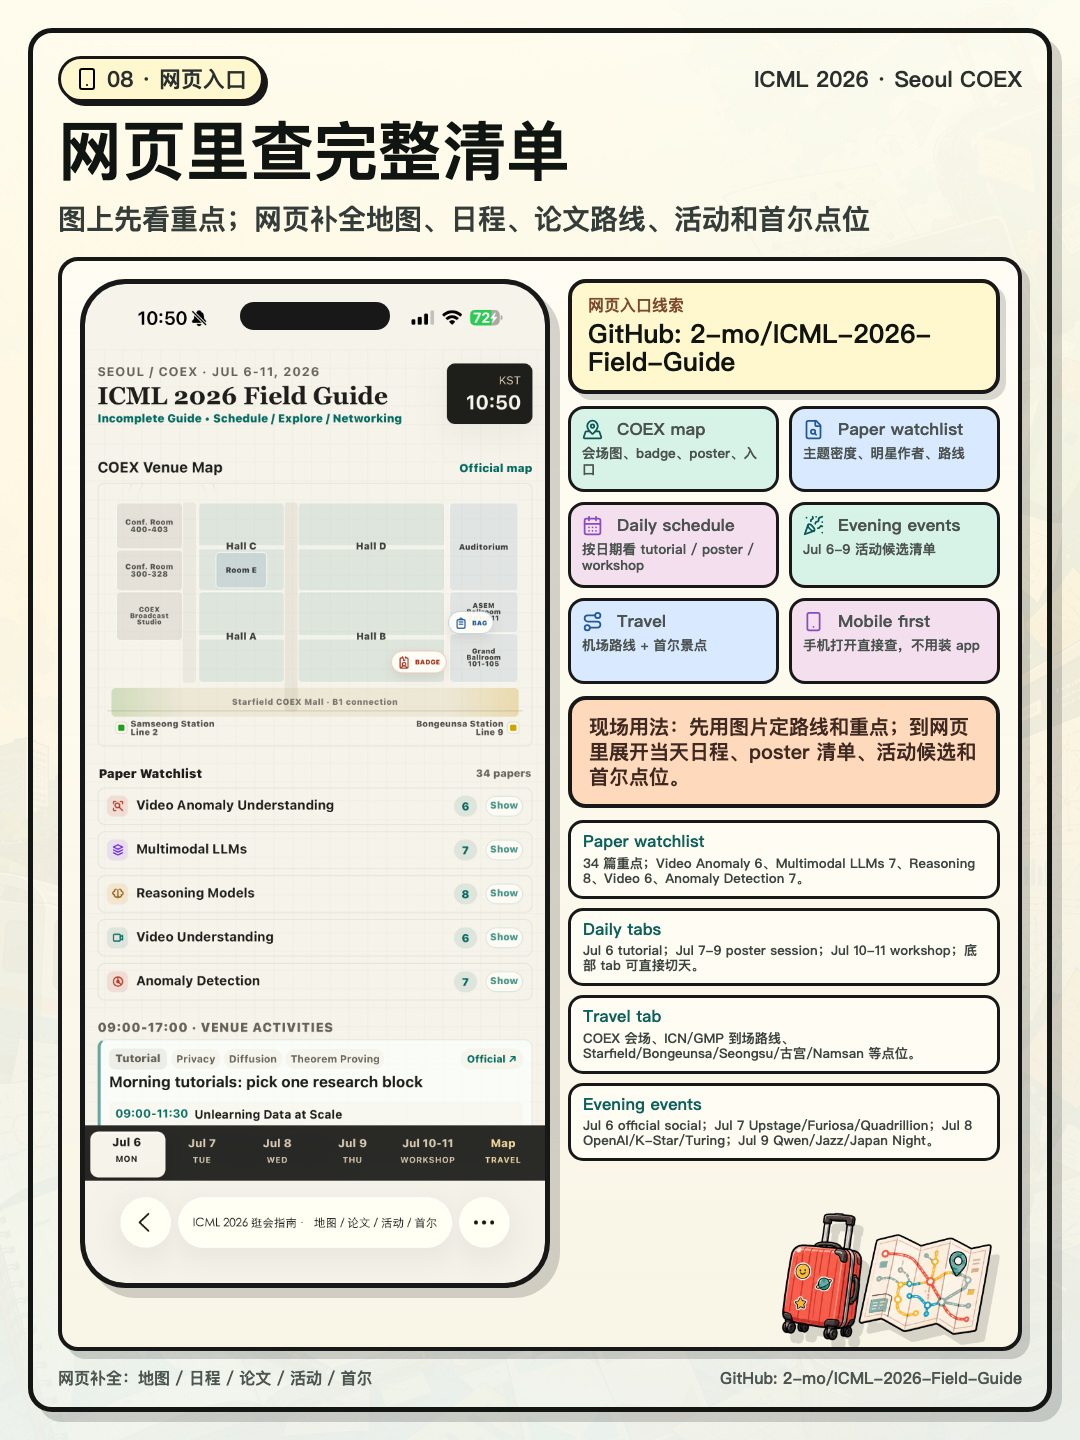
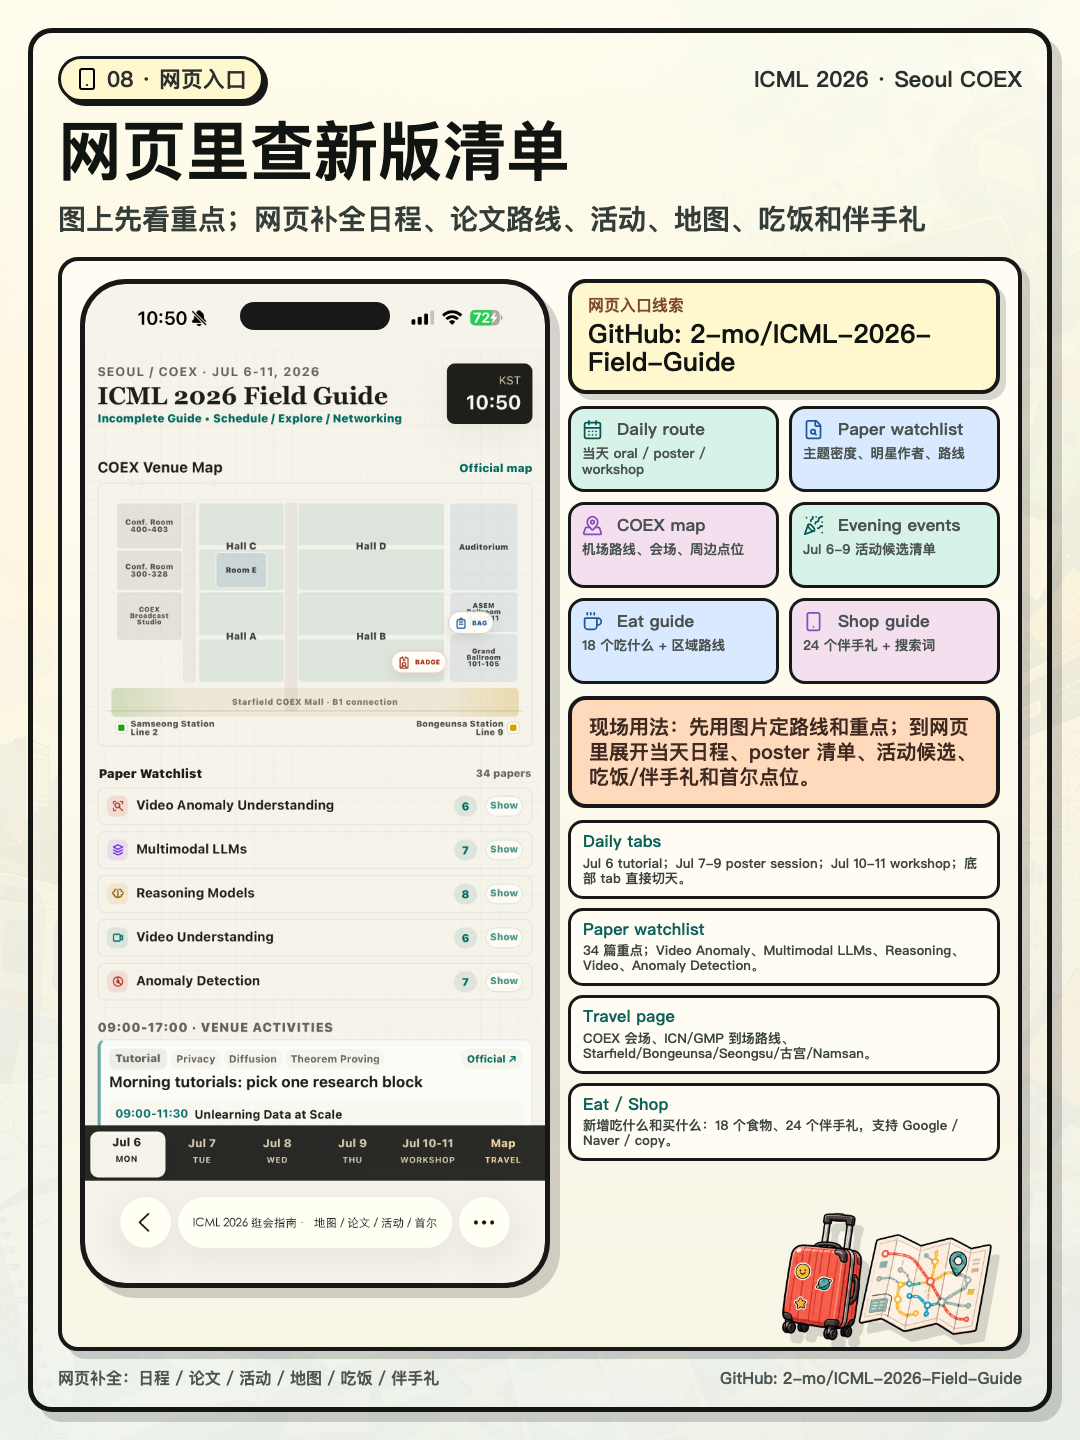
add img

diff --git a/docs/styles.css b/docs/styles.css
@@ -3485,6 +3485,13 @@ main {
     transition: none;
   }
 
+  .travel-mode-tabs,
+  .travel-mode-tabs a,
+  .travel-mode-tabs span,
+  .travel-mode-tabs b {
+    transition: none;
+  }
+
   .spot-card.is-copied {
     animation: none;
   }
@@ -3599,7 +3606,7 @@ main {
 
 .travel-mode-tabs {
   position: sticky;
-  top: 0;
+  top: max(0px, env(safe-area-inset-top));
   z-index: 30;
   display: grid;
   grid-template-columns: repeat(3, minmax(0, 1fr));
@@ -3613,6 +3620,12 @@ main {
   background: rgba(255, 253, 246, 0.88);
   box-shadow: 0 8px 22px rgba(50, 43, 30, 0.08);
   backdrop-filter: blur(16px);
+  transition:
+    padding 180ms ease,
+    margin 180ms ease,
+    border-color 180ms ease,
+    box-shadow 180ms ease,
+    background 180ms ease;
 }
 
 .travel-mode-tabs a {
@@ -3626,6 +3639,12 @@ main {
   border-radius: 7px;
   color: var(--muted);
   text-decoration: none;
+  transition:
+    min-height 180ms ease,
+    padding 180ms ease,
+    color 180ms ease,
+    background 180ms ease,
+    box-shadow 180ms ease;
 }
 
 .travel-mode-tabs span {
@@ -3636,21 +3655,61 @@ main {
   line-height: 1;
   text-overflow: ellipsis;
   white-space: nowrap;
+  transition: font-size 180ms ease;
 }
 
 .travel-mode-tabs b {
   max-width: 100%;
+  max-height: 1rem;
   overflow: hidden;
   font-size: 0.62rem;
   line-height: 1;
   text-overflow: ellipsis;
   white-space: nowrap;
+  transition:
+    max-height 180ms ease,
+    opacity 160ms ease,
+    transform 180ms ease,
+    font-size 180ms ease;
 }
 
 .travel-mode-tabs a.is-active {
   background: #20201d;
   color: #fffdf6;
   box-shadow: 0 8px 18px rgba(32, 32, 29, 0.14);
+}
+
+.travel-mode-tabs.is-compact {
+  position: fixed;
+  top: max(6px, env(safe-area-inset-top));
+  right: max(12px, calc((100vw - 1180px) / 2 + 22px));
+  left: max(12px, calc((100vw - 1180px) / 2 + 22px));
+  width: auto;
+  margin: 0 auto;
+  padding: 3px;
+  border-color: rgba(50, 43, 30, 0.16);
+  background: rgba(255, 253, 246, 0.94);
+  box-shadow: 0 8px 20px rgba(50, 43, 30, 0.12);
+}
+
+.travel-mode-tabs.is-compact a {
+  min-height: 34px;
+  padding: 4px 5px;
+}
+
+.travel-mode-tabs.is-compact span {
+  font-size: 0.76rem;
+}
+
+.travel-mode-tabs.is-compact b {
+  max-height: 0;
+  opacity: 0;
+  transform: translateY(-2px);
+  font-size: 0.56rem;
+}
+
+.travel-mode-tabs.is-compact + main {
+  padding-top: 58px;
 }
 
 .travel-section[data-travel-panel] {

diff --git a/output/xiaohongshu_v3/render/render.html b/output/xiaohongshu_v3/render/render.html
@@ -1992,10 +1992,10 @@
         const photos = [
           ["../photos/starfield_library.jpg", "Starfield Library", "会间隙 / 雨天 / 等人"],
           ["../photos/bongeunsa.jpg", "Bongeunsa", "离 COEX 最近的安静短线"],
-          ["../photos/seongsu.jpg", "Seongsu", "2-3 小时 cafe / brand space"],
+          ["../photos/seongsu.jpg", "Seongsu", "cafe / brand space / 买逛"],
           ["../photos/seoul_forest.jpg", "Seoul Forest", "和 Seongsu 合并，不单独跑"],
           ["../photos/gyeongbokgung.jpg", "Gyeongbokgung", "半天市中心线"],
-          ["../photos/namsan_view.jpg", "Namsan view", "晚间夜景 / Myeongdong 可合并"],
+          ["../photos/namsan_view.jpg", "Namsan view", "夜景 / 明洞吃买可合并"],
         ];
         const photoHtml = photos
           .map(
@@ -2005,16 +2005,16 @@
           )
           .join("");
         const attractions = [
-          ["book-open", "Starfield Library · COEX", "COEX Mall 中央；集合、拍照、短休息。Mall 通常 10:30-22:00，店铺不同。"],
-          ["landmark", "Bongeunsa Temple · COEX", "Bongeunsa Exit 7 方向；会场外最近安静步行点，早上/日落更合适。"],
-          ["map-pin", "SEA LIFE COEX Aquarium", "COEX/Starfield 室内；雨天、同行家属、临时空档备选，查当日 last entry。"],
-          ["map", "Parnas / Hyundai Trade Center", "Samseong / Parnas 一侧；饭局、伴手礼、food hall，比 COEX Mall 稍安静。"],
-          ["coffee", "Seongsu Cafe Street", "Samseong Line 2 → Seongsu；咖啡、快闪、品牌空间，和 Seoul Forest 同线。"],
-          ["map-pinned", "Seoul Forest", "Seongsu/Ttukseom 一带；白天散步、公园，和圣水咖啡街合并。"],
-          ["landmark", "Gyeongbokgung / Bukchon", "古宫 + 韩屋村 + Insadong；半天市中心线，适合无 poster 冲突时段。"],
-          ["route", "Namsan / Myeongdong", "N Seoul Tower 夜景 + 明洞吃饭购物；适合无 RSVP 的晚上。"],
-          ["party-popper", "Hongdae / Hapjeong", "Line 2 跨城；音乐、夜生活、Mapo/Hapjeong 饭局。"],
-          ["users", "Itaewon / Hannam", "餐厅、bar、gallery；晚间 taxi 通常比换乘更省心。"],
+          ["book-open", "Starfield Library · COEX", "会间隙集合、拍照、短休息；下楼就是 Mall 和补给。"],
+          ["landmark", "Bongeunsa Temple · COEX", "会场外最近安静步行点；早上或日落去，比硬挤景点舒服。"],
+          ["coffee", "吃饭先看 COEX / Parnas", "网页 Eat 页列 18 个食物关键词；午餐优先近场、少排队。"],
+          ["map", "Food hall / department store", "Parnas、Hyundai Trade Center、City Air Tower 更适合饭局和雨天。"],
+          ["route", "Seongsu Cafe Street", "Samseong Line 2 直达；咖啡、品牌空间、快闪，和 Seoul Forest 同线。"],
+          ["map-pinned", "Seoul Forest", "白天散步、公园、咖啡续摊；不要和市中心古宫拆成两趟。"],
+          ["landmark", "Gyeongbokgung / Bukchon", "古宫 + 韩屋村 + Insadong；半天市中心线，适合无 poster 冲突。"],
+          ["map-pin", "Namsan / Myeongdong", "晚间夜景 + 明洞吃饭购物；适合没有 RSVP 的晚上。"],
+          ["badge-check", "伴手礼看 Shop 页", "网页已加 24 个商品/门店：护肤、零食、茶、文创、机场可带。"],
+          ["file-search", "搜索词直接复制", "Travel 页卡片带 Google / Naver / copy，按区域和携带难度筛。"],
         ];
         const attractionHtml = attractions
           .map(([iconName, name, desc]) => `<div class="attraction-item">${iconTitle(iconName, name)}<span>${esc(desc)}</span></div>`)
@@ -2023,12 +2023,12 @@
           "seoul",
           "dense",
           `
-            ${header("07 · 首尔顺路玩", "COEX 出发怎么安排", "会间隙：Starfield/Bongeunsa；半天：Seongsu/古宫；晚上：Namsan/Hongdae/Itaewon", "landmark")}
+            ${header("07 · 首尔吃买玩", "COEX 出发怎么排", "会间隙：Starfield/Bongeunsa；吃饭：COEX/Parnas/Seongsu；买礼：Olive Young/百货/机场", "landmark")}
             <div class="board">
               <div class="photo-grid">${photoHtml}</div>
               <div class="attraction-grid">${attractionHtml}</div>
             </div>
-            ${footer("短线看 COEX 周边；半天去 Seongsu/古宫；晚上再跑夜景或饭局")}
+            ${footer("新版 Travel 页：Map / Eat / Shop / Routes 都可直接查")}
           `,
         );
       }
@@ -2075,21 +2075,21 @@
 
       function renderPromo() {
         const features = [
-          ["map-pinned", "COEX map", "会场图、badge、poster、入口"],
+          ["calendar-days", "Daily route", "当天 oral / poster / workshop"],
           ["file-search", "Paper watchlist", "主题密度、明星作者、路线"],
-          ["calendar-days", "Daily schedule", "按日期看 tutorial / poster / workshop"],
+          ["map-pinned", "COEX map", "机场路线、会场、周边点位"],
           ["party-popper", "Evening events", "Jul 6-9 活动候选清单"],
-          ["route", "Travel", "机场路线 + 首尔景点"],
-          ["smartphone", "Mobile first", "手机打开直接查，不用装 app"],
+          ["coffee", "Eat guide", "18 个吃什么 + 区域路线"],
+          ["smartphone", "Shop guide", "24 个伴手礼 + 搜索词"],
         ];
         const featureHtml = features
           .map(([iconName, name, desc]) => `<div class="promo-feature">${iconTitle(iconName, name)}<span>${esc(desc)}</span></div>`)
           .join("");
         const details = [
-          ["Paper watchlist", "34 篇重点；Video Anomaly 6、Multimodal LLMs 7、Reasoning 8、Video 6、Anomaly Detection 7。"],
-          ["Daily tabs", "Jul 6 tutorial；Jul 7-9 poster session；Jul 10-11 workshop；底部 tab 可直接切天。"],
-          ["Travel tab", "COEX 会场、ICN/GMP 到场路线、Starfield/Bongeunsa/Seongsu/古宫/Namsan 等点位。"],
-          ["Evening events", "Jul 6 official social；Jul 7 Upstage/Furiosa/Quadrillion；Jul 8 OpenAI/K-Star/Turing；Jul 9 Qwen/Jazz/Japan Night。"],
+          ["Daily tabs", "Jul 6 tutorial；Jul 7-9 poster session；Jul 10-11 workshop；底部 tab 直接切天。"],
+          ["Paper watchlist", "34 篇重点；Video Anomaly、Multimodal LLMs、Reasoning、Video、Anomaly Detection。"],
+          ["Travel page", "COEX 会场、ICN/GMP 到场路线、Starfield/Bongeunsa/Seongsu/古宫/Namsan。"],
+          ["Eat / Shop", "新增吃什么和买什么：18 个食物、24 个伴手礼，支持 Google / Naver / copy。"],
         ];
         const detailHtml = details
           .map(([title, body]) => `<div class="promo-detail"><b>${esc(title)}</b><span>${esc(body)}</span></div>`)
@@ -2098,7 +2098,7 @@
           "promo",
           "small-title",
           `
-            ${header("08 · 网页入口", "网页里查完整清单", "图上先看重点；网页补全地图、日程、论文路线、活动和首尔点位", "smartphone")}
+            ${header("08 · 网页入口", "网页里查新版清单", "图上先看重点；网页补全日程、论文路线、活动、地图、吃饭和伴手礼", "smartphone")}
             <div class="board promo-board">
               <div class="phone-frame">
                 <img src="../screenshots/mobile-homepage-promo-bar.png" alt="ICML 2026 Field Guide mobile screenshot" />
@@ -2109,12 +2109,12 @@
                   <b>GitHub: 2-mo/ICML-2026-Field-Guide</b>
                 </div>
                 <div class="promo-feature-grid">${featureHtml}</div>
-                <div class="promo-caution">现场用法：先用图片定路线和重点；到网页里展开当天日程、poster 清单、活动候选和首尔点位。</div>
+                <div class="promo-caution">现场用法：先用图片定路线和重点；到网页里展开当天日程、poster 清单、活动候选、吃饭/伴手礼和首尔点位。</div>
                 <div class="promo-detail-list">${detailHtml}</div>
                 <div class="promo-sticker-wrap"><img class="promo-sticker" src="../stickers/promo-route-sticker.png" alt="" /></div>
               </div>
             </div>
-            ${footer("网页补全：地图 / 日程 / 论文 / 活动 / 首尔", "GitHub: 2-mo/ICML-2026-Field-Guide")}
+            ${footer("网页补全：日程 / 论文 / 活动 / 地图 / 吃饭 / 伴手礼", "GitHub: 2-mo/ICML-2026-Field-Guide")}
           `,
         );
       }

diff --git a/docs/travel.js b/docs/travel.js
@@ -740,6 +740,12 @@ function updateTravelTabs(activeKey) {
   });
 }
 
+function updateTravelTabsCompact() {
+  const tabs = $(".travel-mode-tabs");
+  if (!tabs) return;
+  tabs.classList.toggle("is-compact", window.scrollY > 90);
+}
+
 function bindTravelTabObserver() {
   const panels = $$("[data-travel-panel]");
   if (!panels.length || !("IntersectionObserver" in window)) return;
@@ -845,5 +851,7 @@ Promise.all([loadTravel(), loadRouteIdeas(), loadFoodGuide(), loadSouvenirGuide(
   });
 
 window.addEventListener("resize", () => requestAnimationFrame(updateBottomNavIndicator), { passive: true });
+window.addEventListener("scroll", () => requestAnimationFrame(updateTravelTabsCompact), { passive: true });
 window.addEventListener("orientationchange", () => setTimeout(updateBottomNavIndicator, 220), { passive: true });
 requestAnimationFrame(updateBottomNavIndicator);
+requestAnimationFrame(updateTravelTabsCompact);